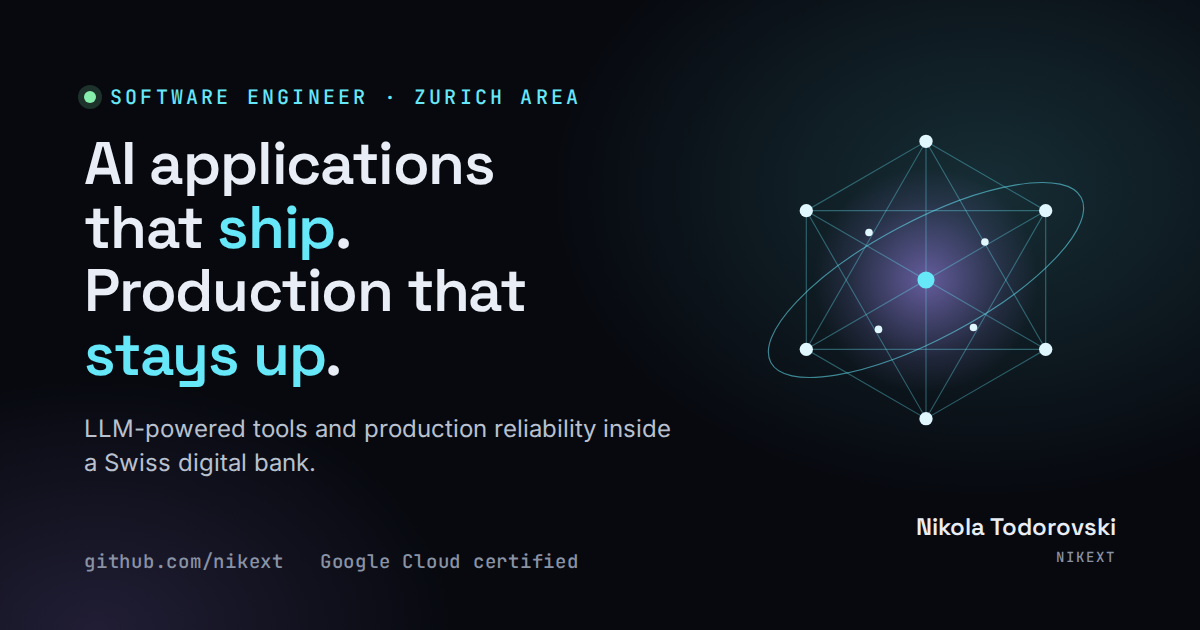
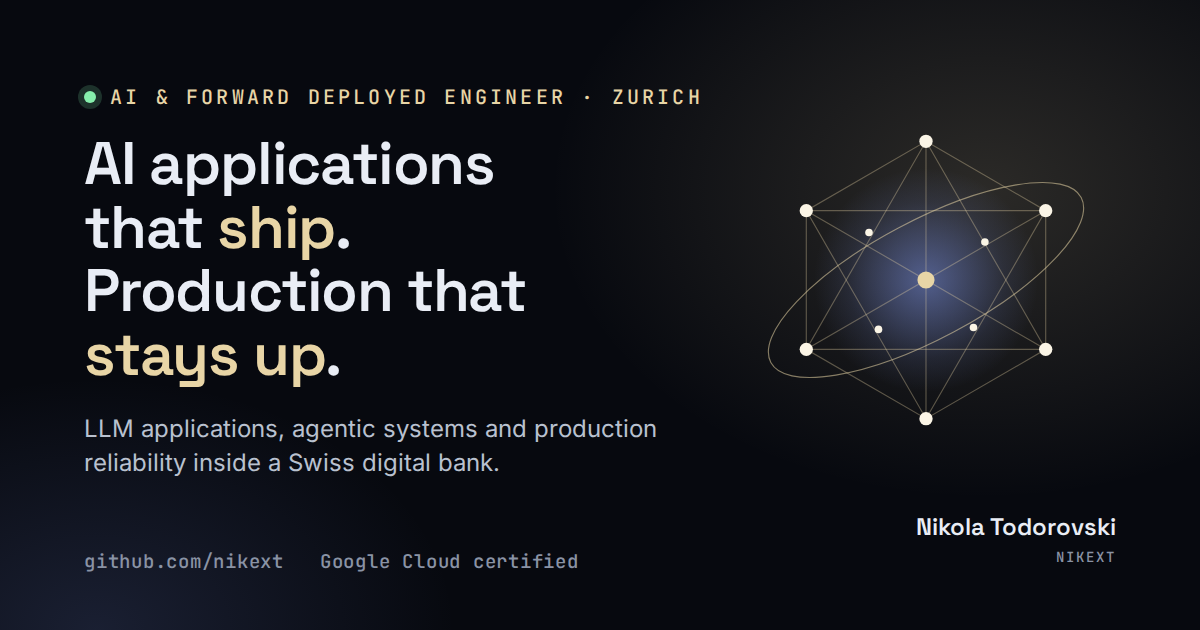
Champagne accent with colour tokens as the single source of truth
Replace the cyan #67e8f9 with champagne gold #e8d5a6 and a cool blue
glow #7c93e8 in the sphere core. Stylesheets tint with color-mix() on
the tokens instead of raw rgba values, the three.js layer reads the
tokens through src/scene/palette.ts, and the header mark uses CSS
variables. Favicon, brand mark GLB and OG image regenerated; agent
notes describe the new look and the token workflow.

diff --git a/scripts/og.html b/scripts/og.html
@@ -24,8 +24,8 @@
         position: absolute;
         inset: 0;
         background:
-          radial-gradient(700px 500px at 82% 30%, rgba(103, 232, 249, 0.16), transparent 62%),
-          radial-gradient(600px 420px at 8% 100%, rgba(167, 139, 250, 0.16), transparent 60%);
+          radial-gradient(700px 500px at 82% 30%, rgba(232, 213, 166, 0.16), transparent 62%),
+          radial-gradient(600px 420px at 8% 100%, rgba(124, 147, 232, 0.16), transparent 60%);
       }
       .copy {
         position: absolute;
@@ -39,7 +39,7 @@
         font-size: 20px;
         letter-spacing: 0.16em;
         text-transform: uppercase;
-        color: #67e8f9;
+        color: #e8d5a6;
         display: flex;
         align-items: center;
         gap: 14px;
@@ -60,7 +60,7 @@
         margin: 22px 0 0;
       }
       h1 span {
-        color: #67e8f9;
+        color: #e8d5a6;
       }
       p {
         margin: 26px 0 0;
@@ -113,13 +113,13 @@
     <svg class="mark" viewBox="0 0 400 400" fill="none">
       <defs>
         <radialGradient id="core" cx="50%" cy="50%" r="50%">
-          <stop offset="0%" stop-color="#a78bfa" stop-opacity="0.55" />
-          <stop offset="70%" stop-color="#a78bfa" stop-opacity="0.12" />
-          <stop offset="100%" stop-color="#a78bfa" stop-opacity="0" />
+          <stop offset="0%" stop-color="#7c93e8" stop-opacity="0.55" />
+          <stop offset="70%" stop-color="#7c93e8" stop-opacity="0.12" />
+          <stop offset="100%" stop-color="#7c93e8" stop-opacity="0" />
         </radialGradient>
       </defs>
       <circle cx="200" cy="200" r="118" fill="url(#core)" />
-      <g stroke="#67e8f9" stroke-opacity="0.35" stroke-width="1.2">
+      <g stroke="#e8d5a6" stroke-opacity="0.35" stroke-width="1.2">
         <polygon points="200,54 326,127 326,273 200,346 74,273 74,127" />
         <polygon points="200,54 326,273 74,273" />
         <polygon points="200,346 326,127 74,127" />
@@ -135,14 +135,14 @@
           stroke-opacity="0.55"
         />
       </g>
-      <g fill="#e0f7ff">
+      <g fill="#fbf5e6">
         <circle cx="200" cy="54" r="7" />
         <circle cx="326" cy="127" r="7" />
         <circle cx="326" cy="273" r="7" />
         <circle cx="200" cy="346" r="7" />
         <circle cx="74" cy="273" r="7" />
         <circle cx="74" cy="127" r="7" />
-        <circle cx="200" cy="200" r="9" fill="#67e8f9" />
+        <circle cx="200" cy="200" r="9" fill="#e8d5a6" />
         <circle cx="140" cy="150" r="4" />
         <circle cx="262" cy="160" r="4" />
         <circle cx="250" cy="250" r="4" />
@@ -150,12 +150,16 @@
       </g>
     </svg>
     <div class="copy">
-      <div class="eyebrow"><span class="dot"></span>Software Engineer · Zurich area</div>
+      <div class="eyebrow">
+        <span class="dot"></span>AI &amp; Forward Deployed Engineer · Zurich
+      </div>
       <h1>
         AI applications<br />that <span>ship</span>.<br />Production that<br /><span>stays up</span
         >.
       </h1>
-      <p>LLM-powered tools and production reliability inside a Swiss digital bank.</p>
+      <p>
+        LLM applications, agentic systems and production reliability inside a Swiss digital bank.
+      </p>
     </div>
     <div class="foot"><span>github.com/nikext</span><span>Google Cloud certified</span></div>
     <div class="brand">Nikola Todorovski<small>nikext</small></div>

diff --git a/src/styles/global.css b/src/styles/global.css
@@ -10,11 +10,15 @@
   --text: #e9edf5;
   --text-2: #b9c1cf;
   --muted: #8a93a5;
-  --accent: #67e8f9;
-  --accent-strong: #22d3ee;
-  --accent-ink: #052730;
-  --accent-soft: rgba(103, 232, 249, 0.12);
-  --violet: #a78bfa;
+  /* Accent: champagne gold on blue-black, with a cool blue glow in the sphere core.
+     The three.js layer reads these through src/scene/palette.ts; never hardcode them. */
+  --accent: #e8d5a6;
+  --accent-strong: #d9bf7d;
+  --accent-bright: #f3e7c8;
+  --accent-tint: #fbf5e6;
+  --accent-ink: #221a08;
+  --accent-soft: color-mix(in srgb, var(--accent) 12%, transparent);
+  --glow: #7c93e8;
   --ok: #86efac;
 
   /* type */
@@ -96,7 +100,7 @@ button {
 }
 
 ::selection {
-  background: rgba(103, 232, 249, 0.3);
+  background: color-mix(in srgb, var(--accent) 30%, transparent);
 }
 
 /* layout helpers */
@@ -165,7 +169,7 @@ button {
 }
 
 .btn-primary:hover {
-  background: #a5f3fc;
+  background: var(--accent-bright);
   transform: translateY(-1px);
 }
 

diff --git a/src/components/Header.tsx b/src/components/Header.tsx
@@ -55,12 +55,12 @@ export function Header() {
         <a className={styles.brand} href="#top" aria-label="Nikola Todorovski, back to top">
           <span className={styles.mark} aria-hidden="true">
             <svg viewBox="0 0 64 64" fill="none">
-              <g stroke="#67e8f9" strokeWidth="3" strokeLinecap="round" opacity="0.9">
+              <g stroke="var(--accent)" strokeWidth="3" strokeLinecap="round" opacity="0.9">
                 <line x1="18" y1="44" x2="32" y2="20" />
                 <line x1="32" y1="20" x2="46" y2="44" />
                 <line x1="18" y1="44" x2="46" y2="44" />
               </g>
-              <g fill="#e0f7ff">
+              <g fill="var(--accent-tint)">
                 <circle cx="18" cy="44" r="6" />
                 <circle cx="32" cy="20" r="6" />
                 <circle cx="46" cy="44" r="6" />

diff --git a/src/scene/MarkCanvas.tsx b/src/scene/MarkCanvas.tsx
@@ -5,6 +5,7 @@ import { Float, useGLTF } from '@react-three/drei'
 import { useInView } from '../lib/useInView'
 import { useReducedMotion } from '../lib/useReducedMotion'
 import styles from './MarkCanvas.module.css'
+import { cssColor } from './palette'
 
 const MODEL = '/models/mark.glb'
 const { damp } = THREE.MathUtils
@@ -47,7 +48,7 @@ export default function MarkCanvas() {
       >
         <ambientLight intensity={0.5} />
         <directionalLight position={[2, 3, 4]} intensity={2} />
-        <pointLight position={[-2, -1, 2]} intensity={5} color="#a78bfa" distance={8} />
+        <pointLight position={[-2, -1, 2]} intensity={5} color={cssColor('--glow')} distance={8} />
         <Suspense fallback={null}>
           <Float
             speed={reduced ? 0 : 1.6}

diff --git a/src/scene/NeuralSphere.tsx b/src/scene/NeuralSphere.tsx
@@ -4,10 +4,11 @@ import { useFrame } from '@react-three/fiber'
 import { buildGraph } from './graph'
 import { coreShader, edgeShader, nodeShader } from './shaders'
 import { view } from './state'
+import { cssColor } from './palette'
 
-const ACCENT = '#67e8f9'
+const ACCENT = cssColor('--accent')
 const DEEP = '#3b82f6'
-const VIOLET = '#a78bfa'
+const GLOW = cssColor('--glow')
 const WIRE_OPACITY = 0.14
 const RING_OPACITY = 0.35
 
@@ -75,7 +76,7 @@ export function NeuralSphere({ count, k, mobile, animate }: Props) {
     () => ({
       uTime: { value: 0 },
       uOpacity: { value: 1 },
-      uColor: { value: new THREE.Color(VIOLET) },
+      uColor: { value: new THREE.Color(GLOW) },
     }),
     [],
   )

diff --git a/src/scene/palette.ts b/src/scene/palette.ts
@@ -1,0 +1,18 @@
+/**
+ * Colour tokens for the three.js layer, read from the CSS custom properties in
+ * src/styles/global.css so the scene always matches the page. The stylesheet is
+ * imported before any scene chunk loads, so reading at module level is safe; the
+ * fallbacks only cover environments without a document.
+ */
+const FALLBACK = {
+  '--accent': '#e8d5a6',
+  '--glow': '#7c93e8',
+} as const
+
+export type ColorToken = keyof typeof FALLBACK
+
+export function cssColor(token: ColorToken): string {
+  if (typeof document === 'undefined') return FALLBACK[token]
+  const value = getComputedStyle(document.documentElement).getPropertyValue(token).trim()
+  return value || FALLBACK[token]
+}

diff --git a/src/components/HowIWork.module.css b/src/components/HowIWork.module.css
@@ -40,7 +40,11 @@
   width: 100%;
   aspect-ratio: 4 / 3.1;
   border-radius: 12px;
-  background: radial-gradient(circle at 50% 45%, rgba(103, 232, 249, 0.08), transparent 60%);
+  background: radial-gradient(
+    circle at 50% 45%,
+    color-mix(in srgb, var(--accent) 8%, transparent),
+    transparent 60%
+  );
 }
 
 .list {
@@ -71,8 +75,8 @@
 
 .layer:hover,
 .on {
-  border-color: rgba(103, 232, 249, 0.45);
-  background: rgba(103, 232, 249, 0.06);
+  border-color: color-mix(in srgb, var(--accent) 45%, transparent);
+  background: color-mix(in srgb, var(--accent) 6%, transparent);
 }
 
 .on {

diff --git a/src/App.module.css b/src/App.module.css
@@ -9,8 +9,16 @@
   z-index: 0;
   pointer-events: none;
   background:
-    radial-gradient(1100px 700px at 78% 0%, rgba(103, 232, 249, 0.1), transparent 62%),
-    radial-gradient(900px 600px at 6% 100%, rgba(167, 139, 250, 0.1), transparent 60%);
+    radial-gradient(
+      1100px 700px at 78% 0%,
+      color-mix(in srgb, var(--accent) 10%, transparent),
+      transparent 62%
+    ),
+    radial-gradient(
+      900px 600px at 6% 100%,
+      color-mix(in srgb, var(--glow) 10%, transparent),
+      transparent 60%
+    );
 }
 
 .skip {

diff --git a/src/components/Header.module.css b/src/components/Header.module.css
@@ -47,7 +47,11 @@
   border-radius: 11px;
   display: grid;
   place-items: center;
-  background: linear-gradient(135deg, rgba(103, 232, 249, 0.22), rgba(167, 139, 250, 0.18));
+  background: linear-gradient(
+    135deg,
+    color-mix(in srgb, var(--accent) 22%, transparent),
+    color-mix(in srgb, var(--glow) 18%, transparent)
+  );
   border: 1px solid var(--line-strong);
   flex: none;
 }
@@ -110,7 +114,7 @@
 
 .nav .cta:hover {
   color: var(--accent-ink);
-  background: #a5f3fc;
+  background: var(--accent-bright);
 }
 
 .toggle {

diff --git a/src/components/Projects.module.css b/src/components/Projects.module.css
@@ -33,7 +33,7 @@
   pointer-events: none;
   background: radial-gradient(
     280px circle at var(--mx, 50%) var(--my, 50%),
-    rgba(103, 232, 249, 0.13),
+    color-mix(in srgb, var(--accent) 13%, transparent),
     transparent 60%
   );
   opacity: 0;
@@ -58,7 +58,7 @@
   text-transform: uppercase;
   color: var(--accent);
   padding: 4px 9px;
-  border: 1px solid rgba(103, 232, 249, 0.3);
+  border: 1px solid color-mix(in srgb, var(--accent) 30%, transparent);
   border-radius: 999px;
   background: var(--accent-soft);
 }

diff --git a/src/scene/StackDiagram.tsx b/src/scene/StackDiagram.tsx
@@ -10,9 +10,10 @@ import { mulberry32 } from './random'
 import { starShader } from './shaders'
 import { useInView } from '../lib/useInView'
 import { useReducedMotion } from '../lib/useReducedMotion'
+import { cssColor } from './palette'
 import styles from './StackDiagram.module.css'
 
-const ACCENT = '#67e8f9'
+const ACCENT = cssColor('--accent')
 const SLAB = { w: 2.7, h: 0.16, d: 1.8 }
 const GAP = 0.95
 const TOP = ((layers.length - 1) * GAP) / 2

diff --git a/src/components/Credentials.module.css b/src/components/Credentials.module.css
@@ -25,7 +25,7 @@
 }
 
 .cert:hover {
-  border-color: rgba(103, 232, 249, 0.4);
+  border-color: color-mix(in srgb, var(--accent) 40%, transparent);
   transform: translateY(-3px);
 }
 
@@ -108,7 +108,7 @@
   height: 100%;
   width: var(--w);
   border-radius: 4px;
-  background: linear-gradient(90deg, var(--accent-strong), var(--violet));
+  background: linear-gradient(90deg, var(--accent-strong), var(--glow));
 }
 
 @media (max-width: 960px) {
